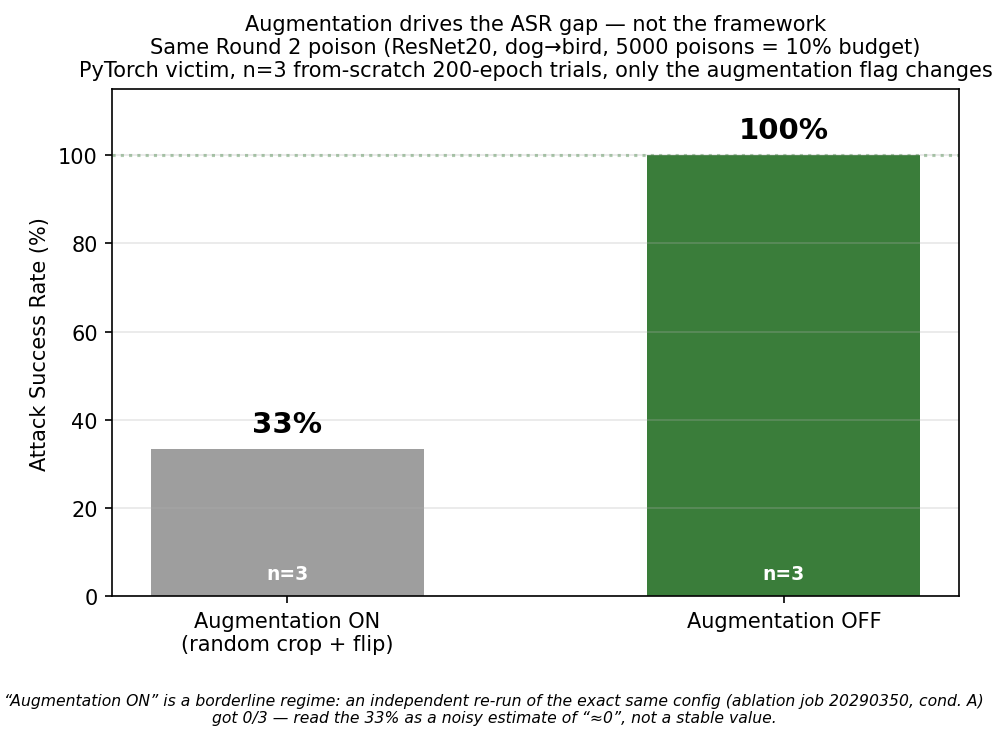
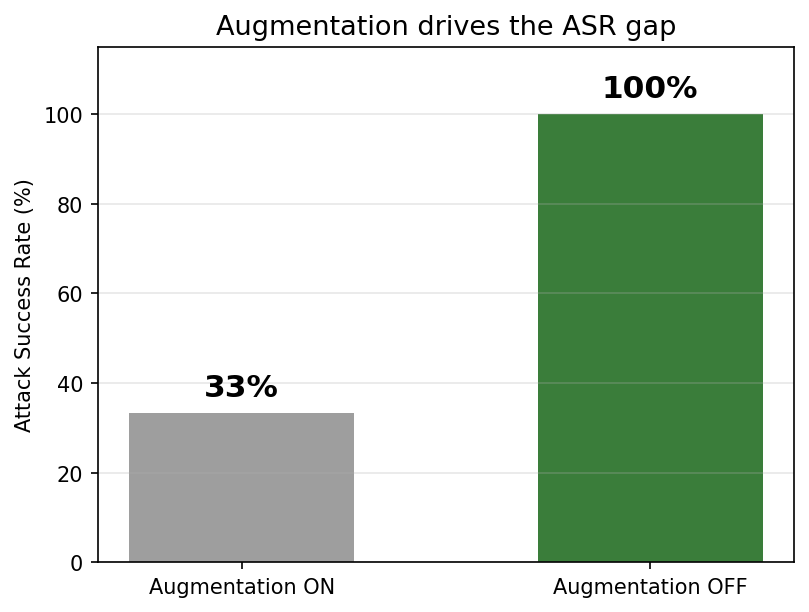
Slim down the augmentation-ablation figure
Drop the 3-line subtitle, the per-bar n labels, and the italic footnote.
Just: title "Augmentation drives the ASR gap", two bars (33% / 100%), y-axis.
Provenance + the borderline-regime caveat still printed to the console and
documented in the script docstring, just not painted onto the chart.

Changed region(s): [[0.0, 0.0, 0.9889, 0.9935]]

diff --git a/report/build_fig_ablation.py b/report/build_fig_ablation.py
@@ -44,34 +44,18 @@ aug_on_asr, aug_on_n = asr_and_n(ROUND2_TORCH)        # 1/3 = 0.333
 aug_off_asr, aug_off_n = asr_and_n(ABLATION_B)        # 3/3 = 1.0
 rerun_a_asr, rerun_a_n = asr_and_n(ABLATION_A)        # 0/3 = 0.0 (footnote only)
 
-labels = ['Augmentation ON\n(random crop + flip)', 'Augmentation OFF']
+labels = ['Augmentation ON', 'Augmentation OFF']
 asrs = [aug_on_asr * 100, aug_off_asr * 100]
-ns = [aug_on_n, aug_off_n]
 
-fig, ax = plt.subplots(figsize=(6.5, 4.6))
+fig, ax = plt.subplots(figsize=(5.5, 4.2))
 bars = ax.bar(labels, asrs, color=['#9e9e9e', '#3a7d3a'], width=0.55)
 ax.set_ylabel('Attack Success Rate (%)')
 ax.set_ylim(0, 115)
-ax.set_title('Augmentation drives the ASR gap — not the framework\n'
-             'Same Round 2 poison (ResNet20, dog→bird, 5000 poisons = 10% budget)\n'
-             f'PyTorch victim, n={aug_on_n} from-scratch 200-epoch trials, only the augmentation flag changes',
-             fontsize=10)
-for bar, val, n in zip(bars, asrs, ns):
+ax.set_title('Augmentation drives the ASR gap', fontsize=13)
+for bar, val in zip(bars, asrs):
     ax.text(bar.get_x() + bar.get_width() / 2, val + 2.5, f'{val:.0f}%',
-            ha='center', va='bottom', fontsize=14, fontweight='bold')
-    ax.text(bar.get_x() + bar.get_width() / 2, 3, f'n={n}',
-            ha='center', va='bottom', fontsize=9, color='white', fontweight='bold')
-
-ax.axhline(100, color='#3a7d3a', linestyle=':', alpha=0.4)
+            ha='center', va='bottom', fontsize=15, fontweight='bold')
 ax.grid(axis='y', alpha=0.3)
-
-# Footnote: the aug-ON regime is borderline
-fig.text(0.5, -0.02,
-         f'“Augmentation ON” is a borderline regime: an independent re-run of the exact same config '
-         f'(ablation job 20290350, cond. A) got {int(round(rerun_a_asr*rerun_a_n))}/{rerun_a_n} — '
-         f'read the 33% as a noisy estimate of “≈0”, not a stable value.',
-         ha='center', va='top', fontsize=7.5, style='italic', wrap=True)
-
 fig.tight_layout()
 out = OUT / 'fig_augmentation_ablation.png'
 fig.savefig(out, dpi=150, bbox_inches='tight')
